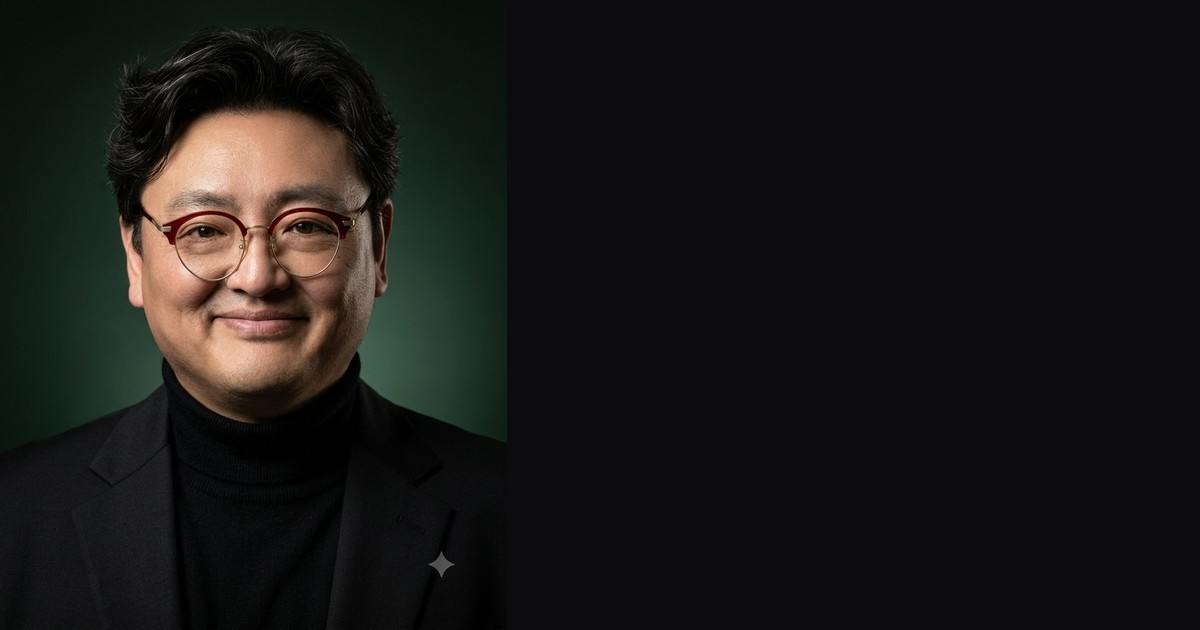
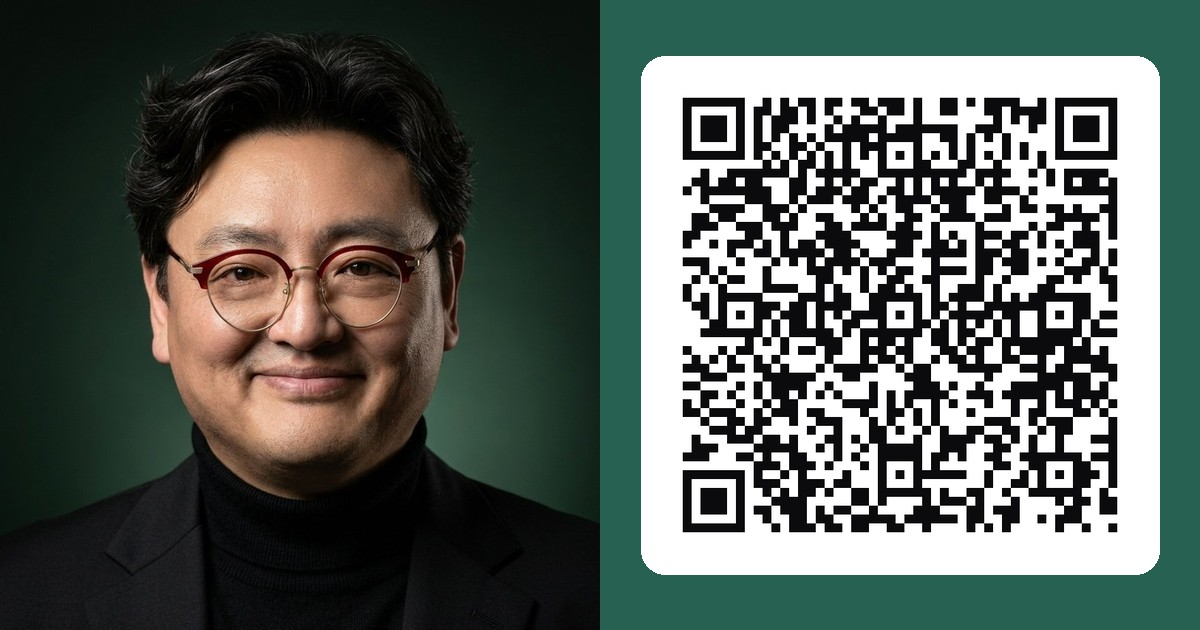
Add files via upload

diff --git a/송승훈/index.html b/송승훈/index.html
@@ -6,7 +6,8 @@
 <title>송승훈 | T.M (Transition Makers)</title>
 <meta property="og:title" content="송승훈 | T.M (Transition Makers)">
 <meta property="og:description" content="One Size Never Fits All — 당신만의 고유한 정체성을 디지털 세계에 구현합니다.">
-<meta property="og:image" content="og.jpg">
+<meta property="og:image" content="https://jinjjabg-hub.github.io/BNI-PIONEER-cards/%EC%86%A1%EC%8A%B9%ED%9B%88/og.jpg">
+<meta property="og:url" content="https://jinjjabg-hub.github.io/BNI-PIONEER-cards/%EC%86%A1%EC%8A%B9%ED%9B%88/">
 <meta property="og:type" content="website">
 <style>
 @font-face{font-family:'Paperlogy';src:url('fonts/Paperlogy-4Regular.woff2') format('woff2');font-weight:400;font-display:swap;}
@@ -15,13 +16,13 @@
 :root{
   --gold:#d4a537;
   --gold-soft:#e8c877;
-  --dark:#0b0b0d;
-  --dark2:#141417;
+  --dark:#276152;
+  --dark2:#1d4a3e;
   --gray:#8a8a92;
   --light:#f6f5f2;
 }
 *{margin:0;padding:0;box-sizing:border-box;-webkit-tap-highlight-color:transparent;}
-html,body{background:#000;}
+html,body{background:#153b31;}
 body{font-family:'Paperlogy','Apple SD Gothic Neo','Noto Sans KR',sans-serif;color:#fff;}
 .card{max-width:430px;margin:0 auto;background:var(--dark);min-height:100vh;position:relative;overflow-x:hidden;}
 [data-lang]{display:none;}
@@ -31,12 +32,12 @@ div[data-lang].active,p[data-lang].active{display:block;}
 /* ===== 언어 스위치 ===== */
 .lang-bar{position:absolute;top:14px;right:14px;z-index:20;display:flex;gap:4px;background:rgba(0,0,0,0.45);backdrop-filter:blur(6px);border-radius:20px;padding:4px;}
 .lang-btn{border:none;background:transparent;color:rgba(255,255,255,0.55);font-size:10.5px;font-weight:700;padding:5px 9px;border-radius:14px;cursor:pointer;font-family:inherit;}
-.lang-btn.on{background:var(--gold);color:#0b0b0d;}
+.lang-btn.on{background:var(--gold);color:#143c31;}
 
 /* ===== HERO ===== */
 .hero{position:relative;}
 .hero img{width:100%;display:block;}
-.hero-grad{position:absolute;inset:0;background:linear-gradient(to bottom,rgba(0,0,0,0.15) 0%,rgba(0,0,0,0) 35%,rgba(11,11,13,0.55) 78%,var(--dark) 100%);}
+.hero-grad{position:absolute;inset:0;background:linear-gradient(to bottom,rgba(0,0,0,0.15) 0%,rgba(0,0,0,0) 35%,rgba(39,97,82,0.55) 78%,var(--dark) 100%);}
 .hero-txt{position:absolute;left:0;right:0;bottom:18px;padding:0 24px;z-index:2;}
 .hero-co{font-size:11px;letter-spacing:0.22em;color:var(--gold-soft);font-weight:700;margin-bottom:7px;}
 .hero-name{font-size:34px;font-weight:900;line-height:1.1;text-shadow:0 2px 14px rgba(0,0,0,0.6);}
@@ -44,7 +45,7 @@ div[data-lang].active,p[data-lang].active{display:block;}
 
 /* ===== 프로필 ===== */
 .profile-sec{padding:26px 24px 8px;text-align:center;}
-.profile-img{width:104px;height:104px;border-radius:50%;object-fit:cover;object-position:top;border:3px solid var(--gold);display:block;margin:-72px auto 14px;position:relative;z-index:3;box-shadow:0 6px 24px rgba(0,0,0,0.55);}
+.profile-img{width:104px;height:104px;border-radius:50%;object-fit:cover;object-position:top;border:3px solid var(--gold);display:block;margin:0 auto 14px;position:relative;z-index:3;box-shadow:0 6px 24px rgba(0,0,0,0.45);}
 .profile-tag{display:inline-block;background:rgba(212,165,55,0.14);border:1px solid rgba(212,165,55,0.45);color:var(--gold-soft);font-size:11.5px;font-weight:700;padding:7px 16px;border-radius:20px;margin-bottom:14px;}
 .slogan{font-size:20px;font-weight:900;line-height:1.35;letter-spacing:0.01em;}
 .slogan em{font-style:normal;color:var(--gold);}
@@ -100,7 +101,7 @@ div[data-lang].active,p[data-lang].active{display:block;}
 .port-slide{min-width:100%;}
 .port-slide img{width:100%;display:block;border-radius:14px;aspect-ratio:4/5;object-fit:cover;background:#000;}
 .port-cap{font-size:12px;color:var(--gray);text-align:center;margin-top:10px;line-height:1.6;}
-.cta-order{display:block;margin-top:24px;background:var(--gold);color:#0b0b0d;text-align:center;text-decoration:none;font-weight:900;font-size:15px;padding:17px;border-radius:12px;box-shadow:0 6px 20px rgba(212,165,55,0.3);}
+.cta-order{display:block;margin-top:24px;background:var(--gold);color:#143c31;text-align:center;text-decoration:none;font-weight:900;font-size:15px;padding:17px;border-radius:12px;box-shadow:0 6px 20px rgba(212,165,55,0.3);}
 .cta-order span{display:none;}
 .cta-order span.active{display:inline;}
 
